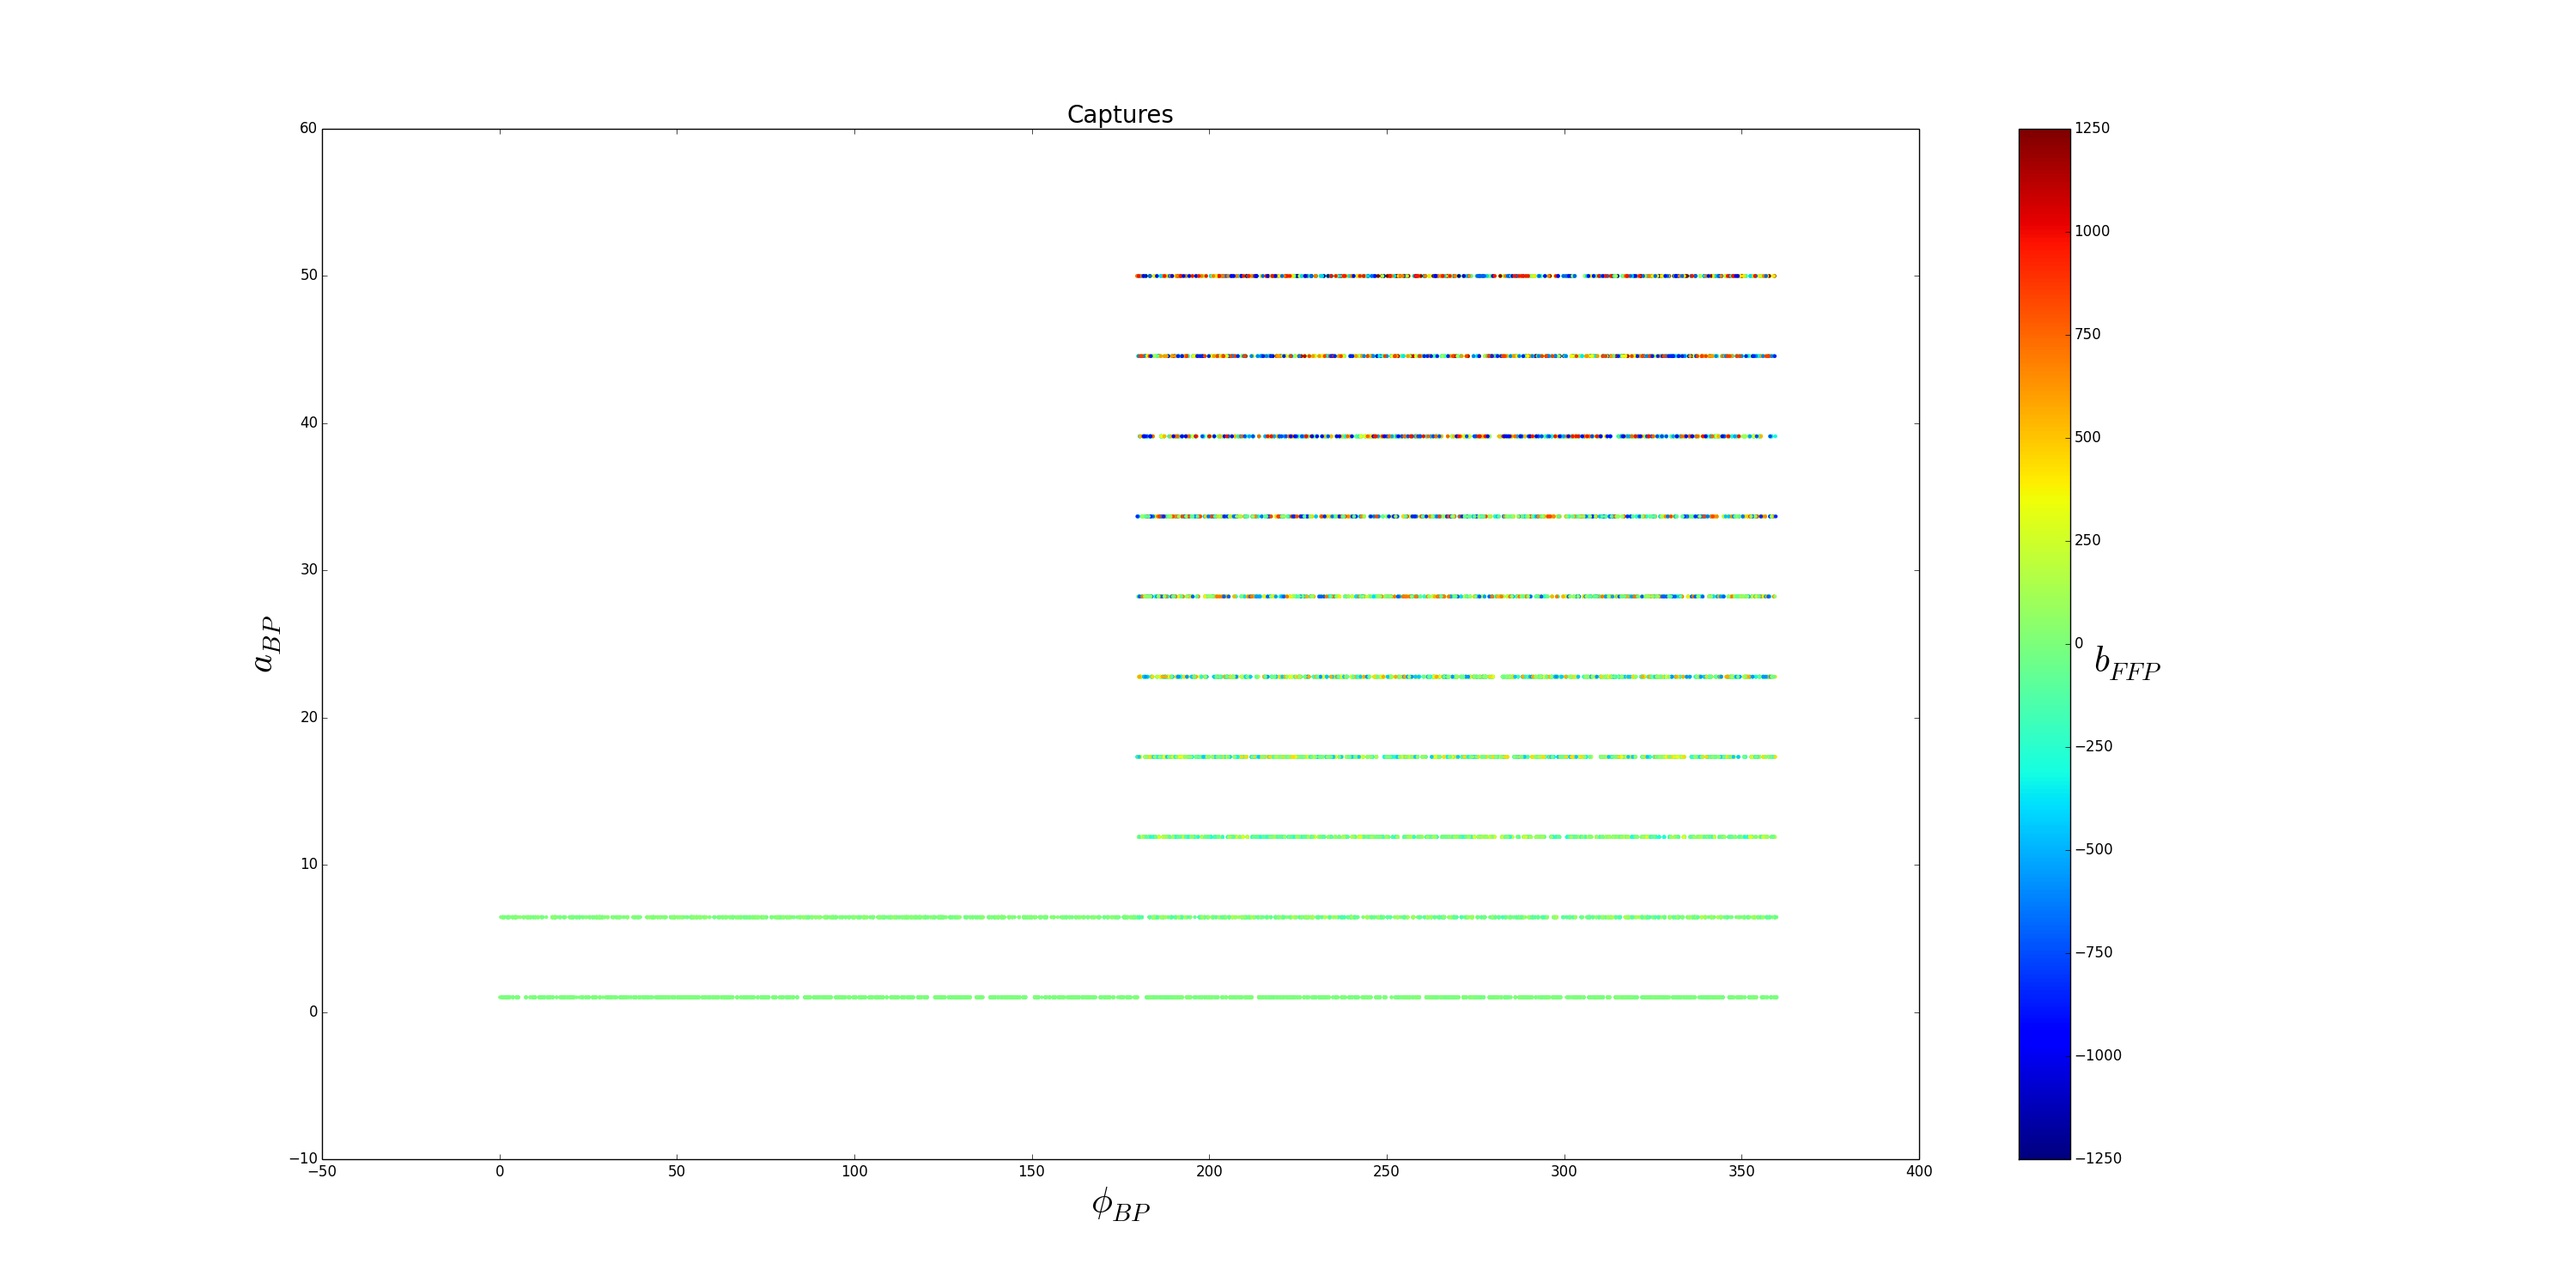
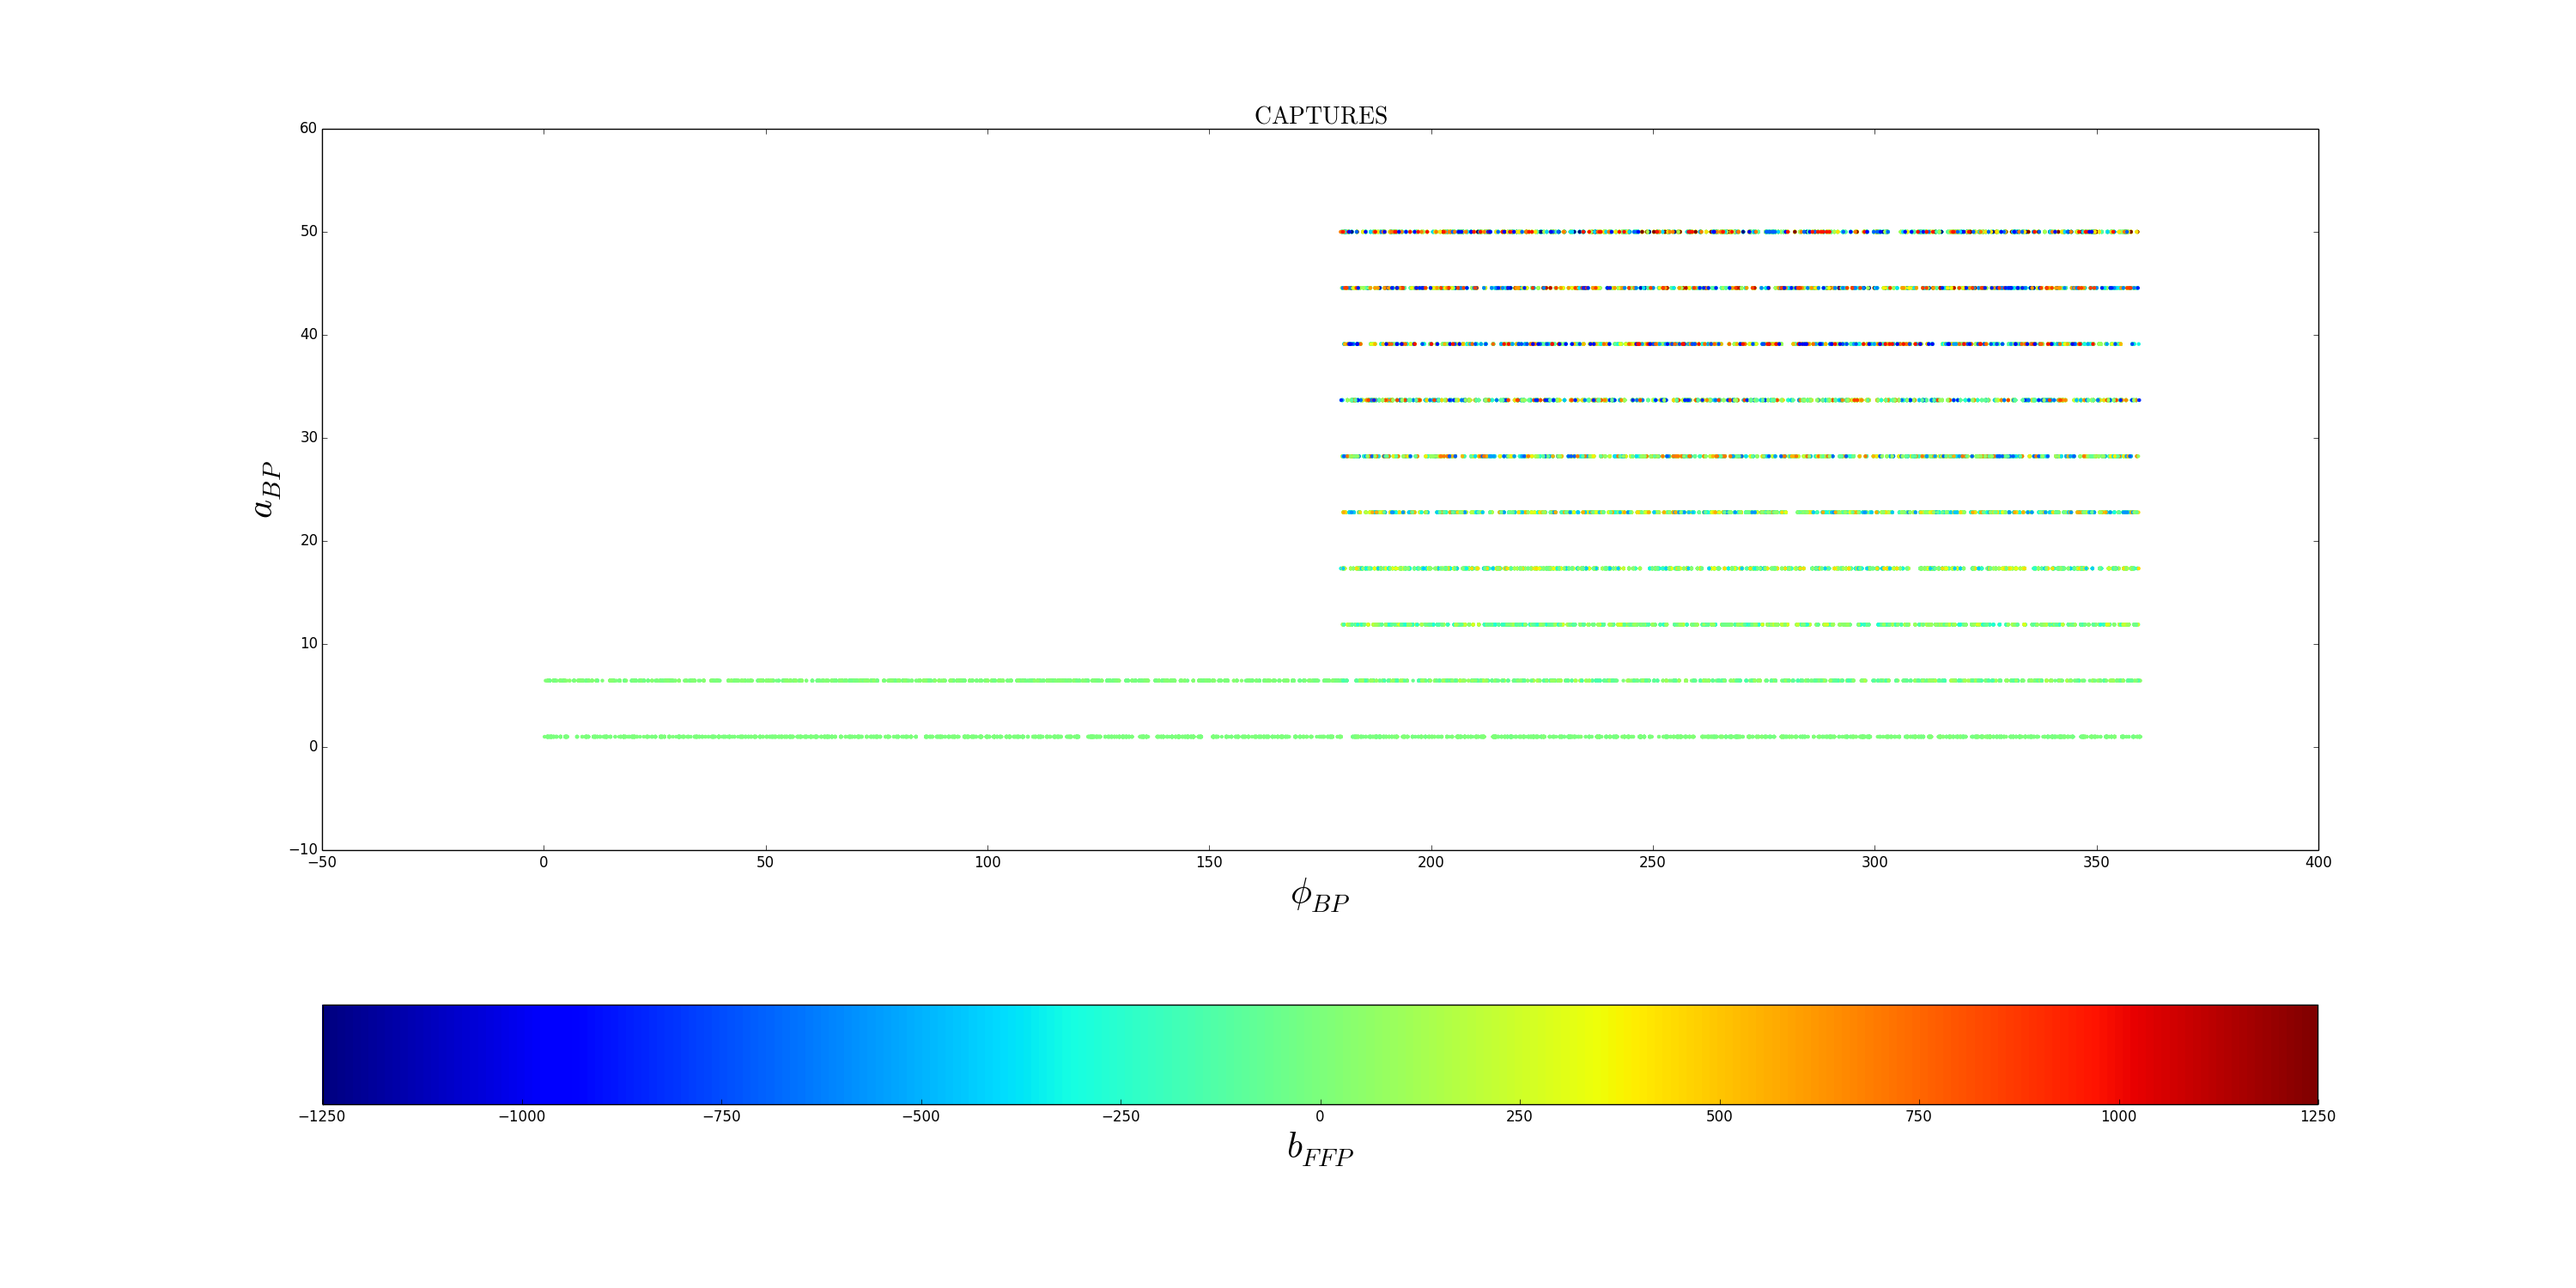
prettier plots

diff --git a/Experiment_WD0806-661B/post_processing.py b/Experiment_WD0806-661B/post_processing.py
@@ -174,9 +174,9 @@ def plot_parameters(parameters_x_axis, parameters_y_axis, parameter_color, df_na
     f = plt.figure(figsize=(30,15))
 
     sc = plt.scatter(parameters_x_axis, parameters_y_axis, c=parameter_color, vmin=np.amin(parameter_color), vmax=np.amax(parameter_color), lw=0, s=10)
-    cbar = plt.colorbar(sc)
+    cbar = plt.colorbar(sc, orientation="horizontal")
 
-    plt.title('Captures', fontsize=20)
+    plt.title('$\mathrm{CAPTURES}$', fontsize=20)
     plt.xlabel(latex_names[0], fontsize=30)
     plt.ylabel(latex_names[1], fontsize=30)
     cbar.set_label(latex_names[2], rotation=0, fontsize=30)
@@ -184,49 +184,54 @@ def plot_parameters(parameters_x_axis, parameters_y_axis, parameter_color, df_na
     plt.savefig('./plots/statistics/parameters_'+df_names[0]+'_'+df_names[1]+'_'+df_names[2]+'_'+df_names[3]+'.png')
     plt.close()
 
-def plot_threesome(parameters_xaxis, parameters_color, parameters_marker, df_names):
+def plot_threesome(parameters_xaxis, parameters_color, parameters_marker, df_names, latex_names):
     #names: [x axis parameter, color parameter, marker parameter]
 
-    markers = ["o",",",".","v","^","<",">","1","2","3","4","8","s","p","*","h","H","+","D","d","|","_"]
+    num_lines = len(parameters_xaxis)
+    list_to_uniq = []
 
-    xaxis_values = uniq_list(parameters_xaxis)
-    colorbar_values = uniq_list(parameters_color)
-    marker_values = uniq_list(parameters_marker)
+    for i in range(num_lines):
+        list_to_uniq.append(str(parameters_xaxis[i])+'\t'+str(parameters_color[i])+'\t'+str(parameters_marker[i]))
 
-    min_val = int(math.floor(min(colorbar_values)))
-    max_val = int(math.ceil(max(colorbar_values)))
-    my_cmap = cm.get_cmap('jet') # or any other one
-    norm = mpl.colors.Normalize(vmin=min_val, vmax=max_val)
-    #my_cmap.set_label(latex_names[1], rotation=0, fontsize=30)
+    unique_combinations, number_unique_combinations = np.unique(list_to_uniq, return_counts=True)
 
-    cmmapable = cm.ScalarMappable(norm, my_cmap)
-    cmmapable.set_array(range(min_val, max_val))
+    xaxis_values = []
+    colorbar_values = []
+    marker_values = []
 
-    f = plt.figure(figsize=(30,15))
+    for uc in unique_combinations:
+        uc_parts = uc.split('\t')
+        xaxis_values.append(float(uc_parts[0]))
+        colorbar_values.append(float(uc_parts[1]))
+        marker_values.append(float(uc_parts[2]))
 
-    for par_xaxis in xaxis_values:
-        for par_color in colorbar_values:
+    xaxis_values = np.array(xaxis_values)
+    colorbar_values = np.array(colorbar_values)
+    marker_values = np.array(marker_values)
 
-            marker_i = 0
-            for par_marker in marker_values:
+    uniq_markers = np.array(uniq_list(marker_values))
+    markers = [".",">","v","d","s","D","p","H","*","o"]
+    marker_i = 0
 
-                color_i = my_cmap(norm(par_xaxis)) # returns an rgba value
+    f = plt.figure(figsize=(40,20))
 
-                par_indices = np.where((df[df_names[0]] == par_xaxis) & (df[df_names[1]] == par_color) & (df[df_names[2]] == par_marker))
-                amount = len(par_indices)
+    m = cm.ScalarMappable(cmap=cm.jet)
+    m.set_array(colorbar_values)
 
-                if (amount != 0):
-                    plt.scatter(par_xaxis, amount, c=color_i, lw=0, s=60, marker=markers[marker_i], label=df_names[2]+' = '+str(par_marker))
+    for um in uniq_markers:
 
-                marker_i += 1
+        par_indices = np.where(marker_values == um)
+        sc = plt.scatter(xaxis_values[par_indices], number_unique_combinations[par_indices], c=colorbar_values[par_indices], lw=0, s=40, marker=markers[marker_i], label=latex_names[2]+'$ = $'+str(um))
 
         marker_i += 1
 
-    plt.colorbar(cmmapable)
-    plt.title('Captures', fontsize=20)
-    plt.legend(loc='center left', bbox_to_anchor=(1, 0.5), fontsize=30)
+    cbar = plt.colorbar(m, orientation="horizontal")
+    cbar.set_label(latex_names[1], fontsize=30)
+    plt.title('$\mathrm{CAPTURES}$', fontsize=40)
+    plt.legend(loc='center left', bbox_to_anchor=(1, 0.5), fontsize=20)
     plt.xlabel(latex_names[0], fontsize=30)
-    plt.ylabel(latex_names[1], fontsize=30)
+    plt.ylabel('$\mathrm{Captures}$', fontsize=30)
+    plt.ylim(0, max(number_unique_combinations)*1.05)
 
     plt.savefig('./plots/statistics/threesome_'+df_names[0]+'_'+df_names[1]+'_'+df_names[2]+'.png')
     plt.close()
@@ -252,18 +257,16 @@ def make_statistical_plots(df, ms_bp, as_bp, bs_ffp, phis_bp):
     print n_ms_bp_par, n_as_bp_par, n_bs_ffp_par, n_phis_bp_par
 
     #Number of captures
-    #m_bp
-    plot_histograms(ms_bp, n_ms_bp_par, 'm_bp')
-    #a_bp
-    plot_histograms(as_bp, n_as_bp_par, 'a_bp')
-    #b_ffp
-    plot_histograms(bs_ffp, n_bs_ffp_par, 'b_ffp')
-    #phi_bp
-    plot_histograms(phis_bp, n_phis_bp_par, 'phi_bp')
+    # #m_bp
+    # plot_histograms(ms_bp, n_ms_bp_par, 'm_bp')
+    # #a_bp
+    # plot_histograms(as_bp, n_as_bp_par, 'a_bp')
+    # #b_ffp
+    # plot_histograms(bs_ffp, n_bs_ffp_par, 'b_ffp')
+    # #phi_bp
+    # plot_histograms(phis_bp, n_phis_bp_par, 'phi_bp')
 
-    # df_names = ['b_ffp', 'a_bp', 'm_bp']
-    # plot_threesome(bs_ffp, as_bp, ms_bp, df_names)
-
+    #Plot parameters
     df_names = ['phi_bp', 'b_ffp', 'a_bp', 'm_bp']
     latex_names = ['$\phi_{BP}$', '$b_{FFP}$', '$a_{BP}$', '$m_{BP}$']
     plot_parameters(phis_bp, bs_ffp, as_bp, df_names, latex_names)
@@ -276,15 +279,33 @@ def make_statistical_plots(df, ms_bp, as_bp, bs_ffp, phis_bp):
     latex_names = ['$\phi_{BP}$', '$m_{BP}$', '$a_{BP}$', '$b_{FFP}$']
     plot_parameters(phis_bp, ms_bp, as_bp, df_names, latex_names)
 
+    #Plot threesomes
+    df_names = ['m_bp', 'b_ffp', 'a_bp']
+    latex_names = ['$m_{BP} \quad \mathrm{(M_{Jupiter})}$', '$b_{FFP} \quad \mathrm{(AU)}$', '$a_{BP}$']
+    plot_threesome(ms_bp, bs_ffp, as_bp, df_names, latex_names)
+
+    df_names = ['b_ffp', 'm_bp', 'a_bp']
+    latex_names = ['$b_{FFP} \quad \mathrm{(AU)}$', '$m_{BP} \quad \mathrm{(M_{Jupiter})}$', '$a_{BP}$']
+    plot_threesome(bs_ffp, ms_bp, as_bp, df_names, latex_names)
+
+    df_names = ['a_bp', 'b_ffp', 'm_bp']
+    latex_names = ['$a_{BP} \quad \mathrm{(AU)}$', '$b_{FFP} \quad \mathrm{(AU)}$', '$m_{BP}$']
+    plot_threesome(as_bp, bs_ffp, ms_bp, df_names, latex_names)
+
+    df_names = ['b_ffp', 'a_bp', 'm_bp']
+    latex_names = ['$b_{FFP} \quad \mathrm{(AU)}$', '$a_{BP} \quad \mathrm{(AU)}$', '$m_{BP}$']
+    plot_threesome(bs_ffp, as_bp, ms_bp, df_names, latex_names)
+
+
 if __name__ in ('__main__', '__plot__'):
 
     #Create file with all the runs made per line
-    create_parameters_and_status_file()
+    # create_parameters_and_status_file()
 
     #Read df
     df, ms_bp, as_bp, bs_ffp, phis_bp = read_stables_df()
 
     #Plottts
-    create_plots_folders()
+    # create_plots_folders()
     #Make statistics plots
     make_statistical_plots(df, ms_bp, as_bp, bs_ffp, phis_bp)

diff --git a/Experiment_WD0806-661B/run_several.py b/Experiment_WD0806-661B/run_several.py
@@ -3,7 +3,9 @@ import numpy as np
 
 def create_info_file():
     info = open('./info.txt','w')
-    info.write('STABLES:\n')
+    info.write('PARAMETERS (All of the ones run):\n')
+    info.write('mass_bp(MJupiter)\tsemimajoraxis_bp(AU)\timpact_parameter_ffp(AU)\tphi_bp(degrees)\teccentricity_star_ffp\teccentricity_star_bp\tsemimajoraxis_star_ffp(AU)\tsemimajoraxis_star_bp(AU)\tduration_run(s)\tenergy_conservation\n')
+    info.write('\nSTABLES (Only the Hill stables):\n')
     info.write('mass_bp(MJupiter)\tsemimajoraxis_bp(AU)\timpact_parameter_ffp(AU)\tphi_bp(degrees)\teccentricity_star_ffp\teccentricity_star_bp\tsemimajoraxis_star_ffp(AU)\tsemimajoraxis_star_bp(AU)\tduration_run(s)\tenergy_conservation\n')
     info.close()
 
